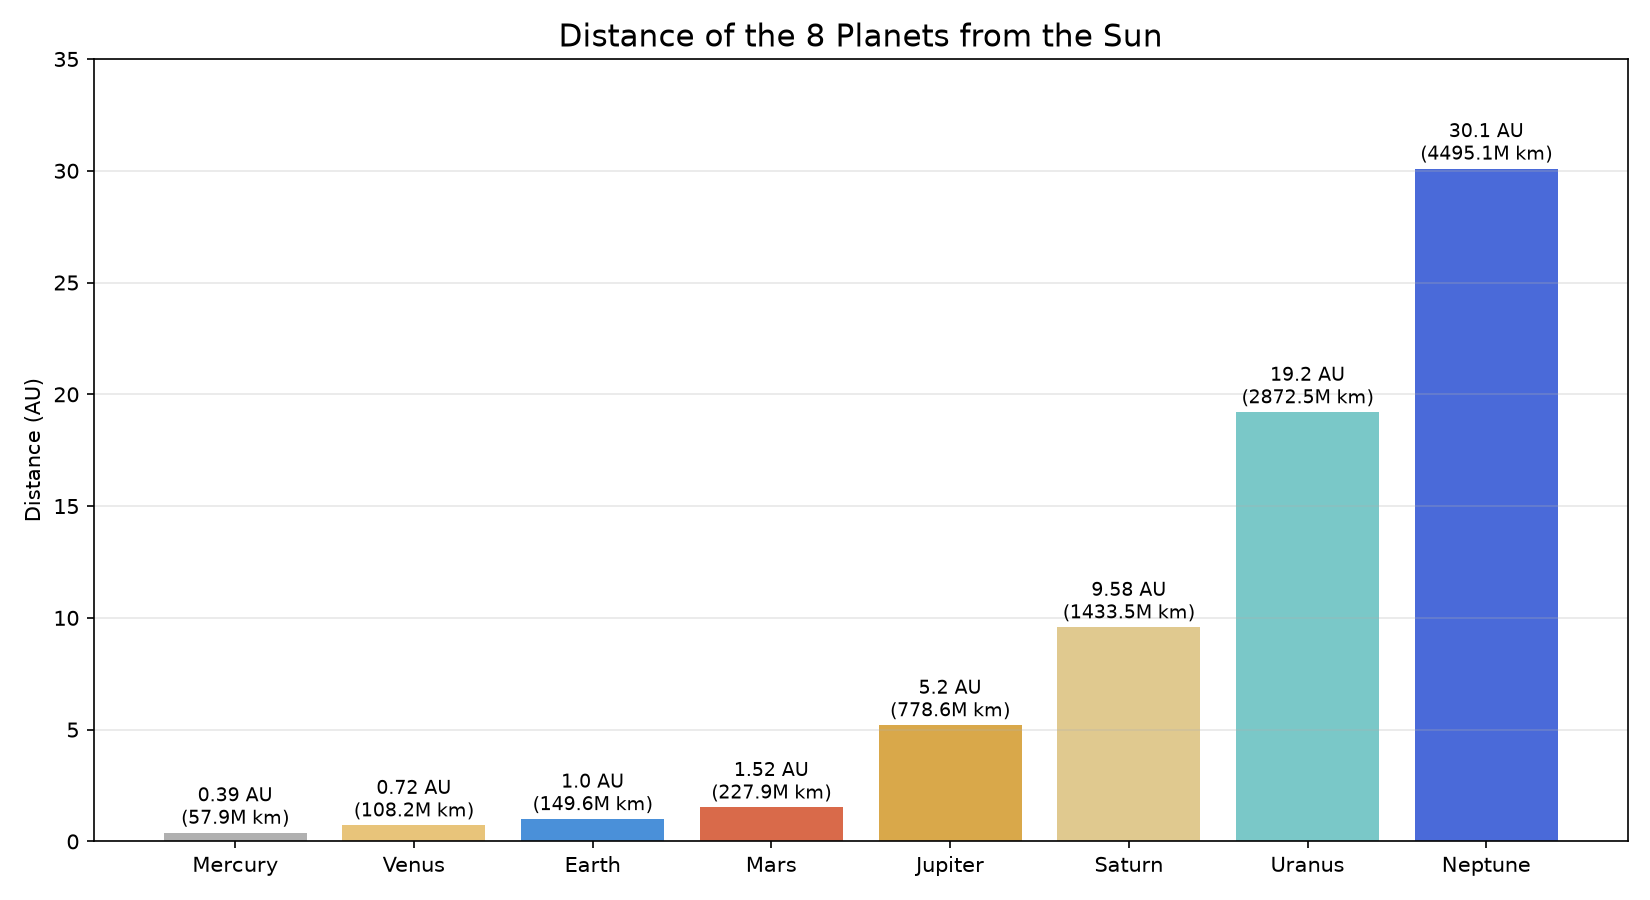
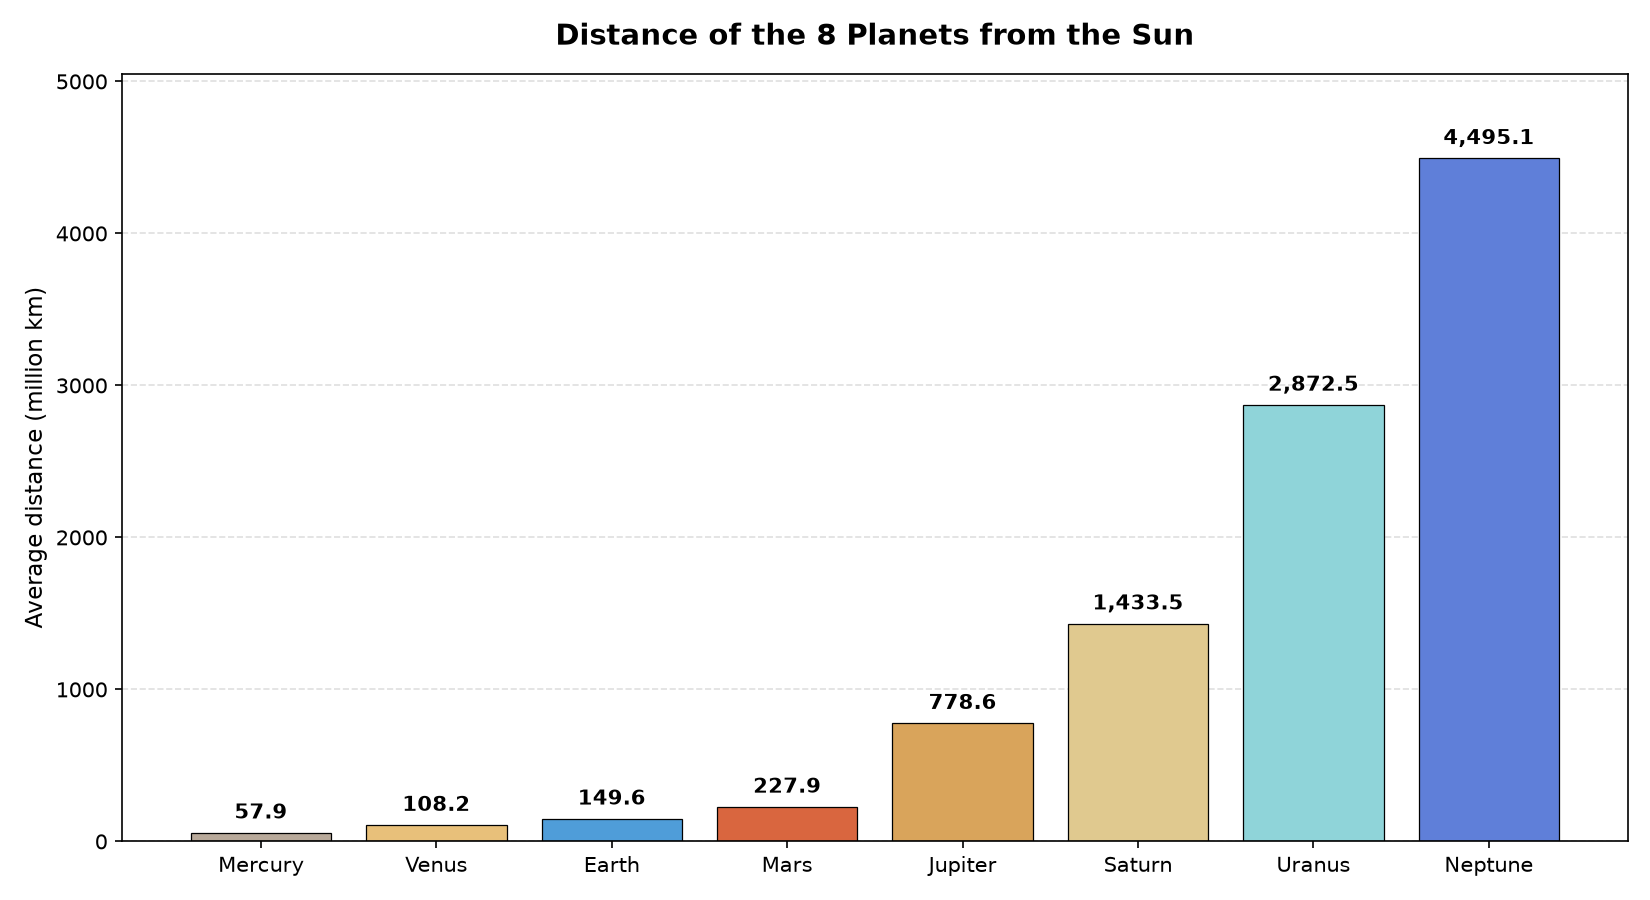
Regenerate chart with updated script

diff --git a/planet_chart.py b/planet_chart.py
@@ -1,23 +1,28 @@
-"""Bar chart of the 8 planets and their distances from the Sun."""
+#!/usr/bin/env python3
+"""Bar chart of the 8 planets and their average distances from the Sun."""
+import os
 import matplotlib
 matplotlib.use("Agg")
 import matplotlib.pyplot as plt
 
 planets = ["Mercury", "Venus", "Earth", "Mars", "Jupiter", "Saturn", "Uranus", "Neptune"]
-dist_au = [0.39, 0.72, 1.00, 1.52, 5.20, 9.58, 19.2, 30.1]          # astronomical units
-dist_km = [57.9, 108.2, 149.6, 227.9, 778.6, 1433.5, 2872.5, 4495.1]  # millions of km
+dist_mkm = [57.9, 108.2, 149.6, 227.9, 778.6, 1433.5, 2872.5, 4495.1]  # million km
 
 fig, ax = plt.subplots(figsize=(11, 6))
-bars = ax.bar(planets, dist_au,
-              color=["#b0b0b0", "#e8c47a", "#4a90d9", "#d96a4a",
-                     "#d9a84a", "#e0c98f", "#7ac8c8", "#4a6ad9"])
-for b, au, km in zip(bars, dist_au, dist_km):
-    ax.text(b.get_x() + b.get_width() / 2, b.get_height() + 0.4,
-            f"{au} AU\n({km}M km)", ha="center", fontsize=9)
-ax.set_title("Distance of the 8 Planets from the Sun", fontsize=15)
-ax.set_ylabel("Distance (AU)")
-ax.set_ylim(0, 35)
-ax.grid(axis="y", alpha=0.3)
-plt.tight_layout()
-plt.savefig("planets.png", dpi=150)
-print("saved planets.png")
+colors = ["#b8a99a", "#e8c07a", "#4f9dd9", "#d9663f", "#d9a45b", "#e0c98f", "#8fd4d9", "#5f7fd9"]
+bars = ax.bar(planets, dist_mkm, color=colors, edgecolor="black", linewidth=0.6)
+
+for bar, d in zip(bars, dist_mkm):
+    ax.text(bar.get_x() + bar.get_width() / 2, bar.get_height() + 60,
+            f"{d:,.1f}", ha="center", va="bottom", fontsize=10, fontweight="bold")
+
+ax.set_title("Distance of the 8 Planets from the Sun", fontsize=14, fontweight="bold", pad=14)
+ax.set_ylabel("Average distance (million km)", fontsize=11)
+ax.set_ylim(0, 5050)
+ax.grid(axis="y", linestyle="--", alpha=0.4)
+ax.set_axisbelow(True)
+
+out = os.path.join(os.path.dirname(os.path.abspath(__file__)), "planets.png")
+fig.tight_layout()
+fig.savefig(out, dpi=150)
+print("Saved:", out)
